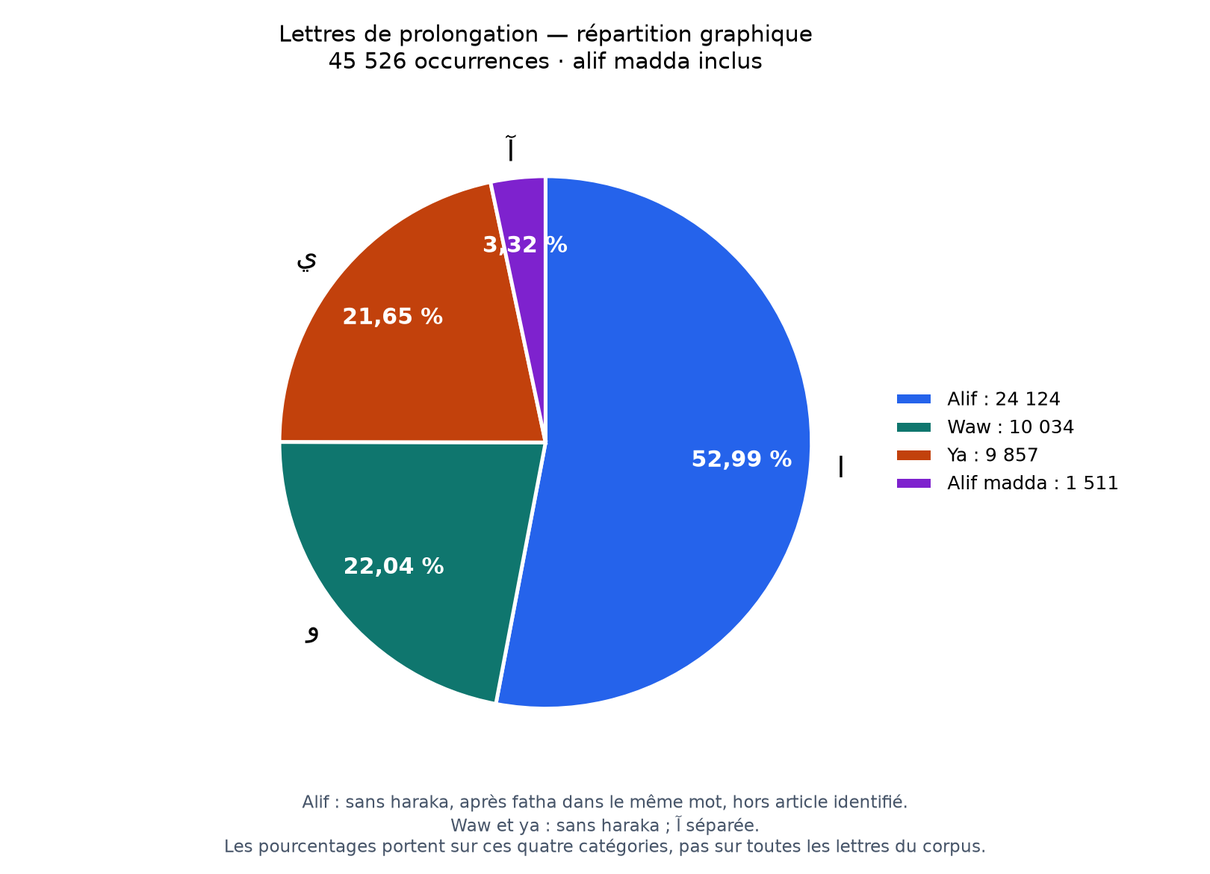
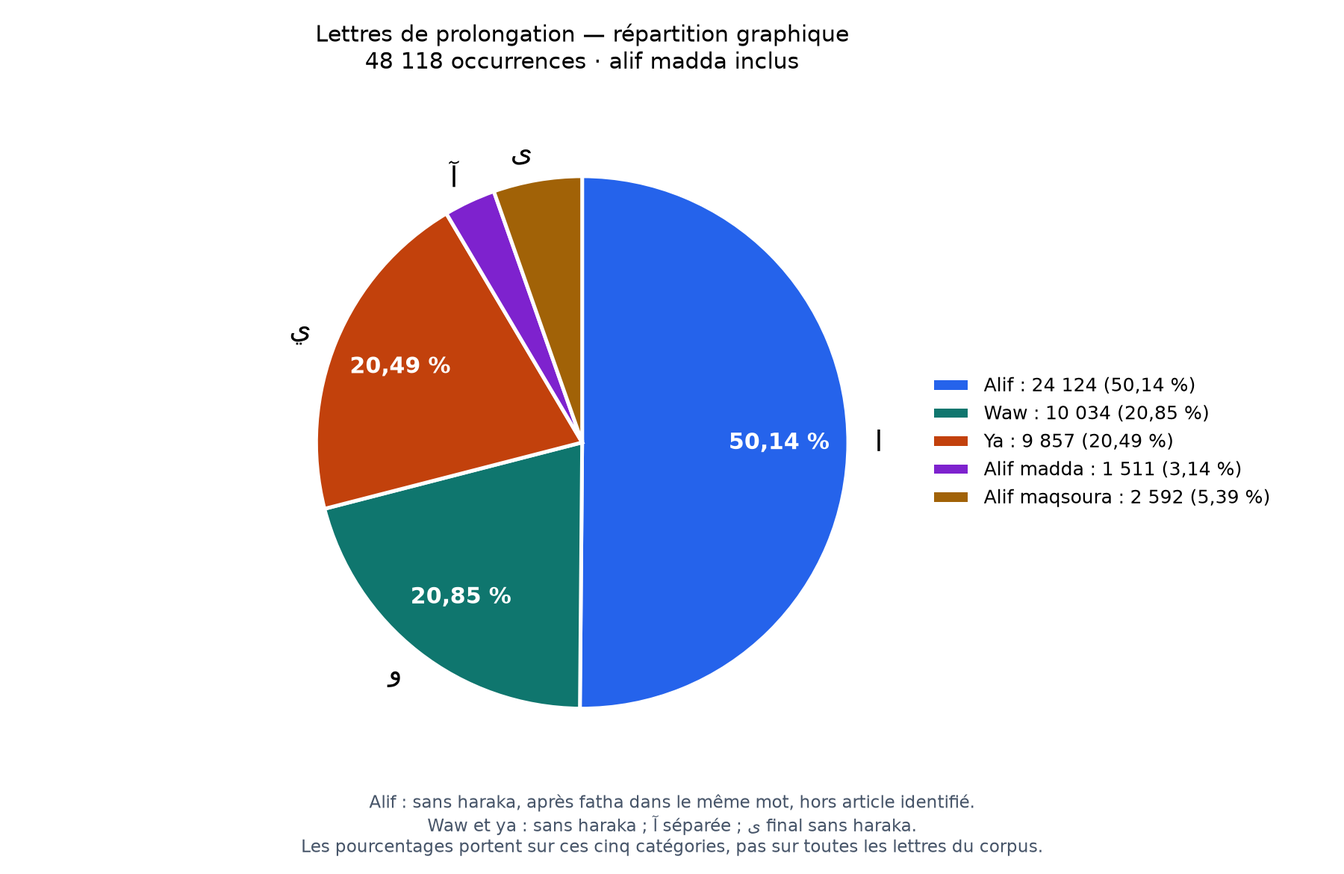
Inclure l’alif maqsoura final sans haraka dans les prolongations

diff --git a/quran_stat/study.py b/quran_stat/study.py
@@ -45,19 +45,14 @@ def frequency_rows(counts):
             for rank, (form, count) in enumerate(sorted(counts.items(), key=lambda item: (-item[1], item[0])), 1)]
 
 
-def vowel_letter_rows(variations, excluded_alifs=0):
-    counts = {base: sum(count for form, count in variations.items()
-                        if form[0] == base and not any(mark in HARAKAT for mark in form[1:]))
-              for base in "اويآ"}
-    counts["ا"] -= excluded_alifs
-    if counts["ا"] < 0:
-        raise ValueError("Le nombre d'alifs exclus dépasse le nombre d'alifs sans haraka.")
+def vowel_letter_rows(retained):
+    counts = {base: retained.get(base, 0) for base in "اويآى"}
     total = sum(counts.values())
     return [{"letter": base, "count": count, "share": count / total if total else 0}
             for base, count in counts.items()]
 
 
-def plots(directory, verse_rows, surah_rows, letters, words, variations, fit, excluded_alifs=0):
+def plots(directory, verse_rows, surah_rows, letters, words, variations, fit, retained_vowels):
     os.environ.setdefault("MPLCONFIGDIR", str(directory / ".mplconfig"))
     import matplotlib
     matplotlib.use("Agg")
@@ -126,14 +121,14 @@ def plots(directory, verse_rows, surah_rows, letters, words, variations, fit, ex
     axes[1].set(xlabel="Numéro de sourate", ylabel="Lettres par verset", title="Longueur moyenne des versets par sourate")
     save(fig, "04_surahs")
 
-    vowel_rows = vowel_letter_rows(variations, excluded_alifs)
+    vowel_rows = vowel_letter_rows(retained_vowels)
     total = sum(row["count"] for row in vowel_rows)
-    fig, ax = plt.subplots(figsize=(9, 6.5))
+    fig, ax = plt.subplots(figsize=(10, 6.5))
     wedges, labels, percentages = ax.pie(
         [row["count"] for row in vowel_rows],
         labels=[row["letter"] for row in vowel_rows],
-        colors=["#2563eb", "#0f766e", "#c2410c", "#7e22ce"],
-        autopct=lambda percent: f"{percent:.2f} %".replace(".", ","),
+        colors=["#2563eb", "#0f766e", "#c2410c", "#7e22ce", "#a16207"],
+        autopct=lambda percent: f"{percent:.2f} %".replace(".", ",") if percent >= 8 else "",
         startangle=90, counterclock=False, pctdistance=0.74,
         wedgeprops={"edgecolor": "white", "linewidth": 2},
         textprops={"fontsize": 15},
@@ -142,19 +137,47 @@ def plots(directory, verse_rows, surah_rows, letters, words, variations, fit, ex
         label.set_color("white")
         label.set_fontsize(12)
         label.set_fontweight("bold")
-    names = ["Alif", "Waw", "Ya", "Alif madda"]
-    ax.legend(wedges, [f"{name} : {row['count']:,}".replace(",", " ")
+    names = ["Alif", "Waw", "Ya", "Alif madda", "Alif maqsoura"]
+    ax.legend(wedges, [f"{name} : {row['count']:,} ({100 * row['share']:.2f} %)".replace(",", " ").replace(".", ",")
                        for name, row in zip(names, vowel_rows)],
               loc="center left", bbox_to_anchor=(1, 0.5), frameon=False)
     ax.set_title("Lettres de prolongation — répartition graphique\n"
                  + f"{total:,} occurrences · alif madda inclus".replace(",", " "), pad=22)
     fig.text(0.5, 0.025, "Alif : sans haraka, après fatha dans le même mot, hors article identifié.\n"
-             "Waw et ya : sans haraka ; آ séparée.\n"
-             "Les pourcentages portent sur ces quatre catégories, pas sur toutes les lettres du corpus.",
+             "Waw et ya : sans haraka ; آ séparée ; ى final sans haraka.\n"
+             "Les pourcentages portent sur ces cinq catégories, pas sur toutes les lettres du corpus.",
              ha="center", fontsize=9, color="#475569")
     fig.tight_layout(rect=(0, 0.09, 1, 1))
     fig.savefig(directory / "05_vowel_letters_pie.png", dpi=180)
     fig.savefig(directory / "05_vowel_letters_pie.pdf")
+    plt.close(fig)
+
+    # Aperçu public régénérable avec les mêmes données que le rapport.
+    fig, axes = plt.subplots(2, 2, figsize=(12, 8))
+    axes[0, 0].hist(lengths, bins="fd", color="#2563eb")
+    axes[0, 0].set(title="Longueur des versets", xlabel="Lettres par verset", ylabel="Versets")
+    frequent = letters.most_common(10)
+    axes[0, 1].barh([x[0] for x in frequent][::-1], [x[1] for x in frequent][::-1], color="#0f766e")
+    axes[0, 1].set(title="Dix lettres les plus fréquentes", xlabel="Occurrences")
+    marks = {name: sum(count for form, count in variations.items() if mark in form[1:])
+             for mark, name in HARAKAT.items()}
+    axes[1, 0].bar(list(marks), list(marks.values()), color="#7e22ce")
+    axes[1, 0].tick_params(axis="x", labelrotation=30)
+    axes[1, 0].set(title="Fréquence des sept harakat", ylabel="Signes")
+    axes[1, 1].barh([r["letter"] for r in vowel_rows][::-1],
+                    [r["count"] for r in vowel_rows][::-1], color="#c2410c")
+    for i, row in enumerate(reversed(vowel_rows)):
+        axes[1, 1].text(row["count"] + 250, i,
+                        f"{row['count']:,} · {row['share']:.1%}".replace(",", " "), va="center", fontsize=9)
+    axes[1, 1].set(title=f"Candidats à la prolongation : {total:,}".replace(",", " "),
+                    xlabel="Occurrences", xlim=(0, max(r["count"] for r in vowel_rows) * 1.4))
+    fig.suptitle("Texte coranique écrit selon l’usage courant de la langue arabe\n"
+                 + f"{sum(letters.values()):,} lettres · {len(verse_rows):,} versets · {len(surah_rows)} sourates".replace(",", " "))
+    fig.text(0.5, 0.01, "Critères graphiques : ا après fatha, hors article ; و et ي sans haraka ; آ séparée ; ى final sans haraka.",
+             ha="center", fontsize=9)
+    fig.tight_layout(rect=(0, 0.04, 1, 0.94))
+    fig.savefig(directory / "corpus-overview.png", dpi=180)
+    fig.savefig(directory / "corpus-overview.pdf")
     plt.close(fig)
 
 
@@ -217,9 +240,11 @@ def make_report(summary, verse_rows, surah_rows, letter_rows, word_rows, output)
     vowel_rows = summary["vowel_letters"]
     vowel_total = sum(row["count"] for row in vowel_rows)
     lines += ["### Lettres de prolongation : répartition graphique", "",
-              f"Total retenu : **{vowel_total:,} occurrences**, pour ا, و et ي sans les sept harakat, avec آ ajoutée séparément.".replace(",", " "),
+              f"Total retenu : **{vowel_total:,} occurrences**, pour ا, و et ي selon les critères ci-dessous, avec آ et ى final sans haraka séparés.".replace(",", " "),
               f"Pour ا, la lettre précédente doit porter une **fatha** dans le même mot (éventuellement avec shadda). Le fathatan ne remplace pas la fatha dans ce filtre. **{summary['excluded_article_alifs']} alifs d'article sont exclus** dans ال initial ou dans وال, فال, بال ; **{summary['excluded_alifs_by_reason'].get('no_preceding_fatha', 0)} autres alifs** sont exclus faute de fatha précédente.",
               "Le filtre de l'article reste nécessaire : dans وَالْـ et فَالْـ, une fatha précède aussi l'alif. Cette règle graphique reste limitée aux préfixes cités ; elle n'est pas une analyse morphologique exhaustive. Le critère de و et ي reste l'absence de haraka, et آ est comptée séparément. Le total général reste 330 705 lettres.",
+              "L’alif maqsoura ى est retenu en fin de mot sans aucune des sept harakat sur cette lettre, sans condition sur les signes de la lettre précédente. Ainsi مُوسَى et هُدًى sont inclus : dans هُدًى, le fathatan porte sur د. Ce classement graphique ne distingue pas la pause de la liaison ; la shadda reste une dimension séparée.",
+              f"Comparaison avant/après l’ajout de ى final sans haraka : {vowel_total - vowel_rows[-1]['count']:,} → {vowel_total:,} candidats (+{vowel_rows[-1]['count']:,}). Les quatre catégories précédentes et le total des lettres écrites restent inchangés.".replace(",", " "),
               "Les pourcentages sont calculés sur ce total, et non sur les 330 705 lettres. Ce critère graphique ne constitue pas une identification phonétique de chaque prolongation.", "",
               "| Lettre | Occurrences | Part du total retenu |", "|---|---:|---:|"]
     for row in vowel_rows:
@@ -294,6 +319,7 @@ def run(input_dir, output):
     word_bigrams, letter_bigrams, repeated = Counter(), Counter(), defaultdict(list)
     surah, previous = 0, 0
     excluded_alifs = 0
+    retained_vowels = Counter()
     alif_exclusions = []
     for index, (source, cleaned) in enumerate(zip(original, plain), 1):
         if source["Verse_ID"] != str(index) or cleaned["Verse_ID"] != str(index):
@@ -318,7 +344,8 @@ def run(input_dir, output):
         all_words.extend(words)
         letter_counts.update("".join(words))
         variation_counts.update(units)
-        _, _, exclusions = analyze_vowel_letters(source["Verse_Text"])
+        _, retained, exclusions = analyze_vowel_letters(source["Verse_Text"])
+        retained_vowels.update(retained)
         excluded_alifs += len(exclusions)
         alif_exclusions.extend({"verse_id": index, **item} for item in exclusions)
         word_bigrams.update(" ".join(pair) for pair in zip(words, words[1:]))
@@ -407,7 +434,7 @@ def run(input_dir, output):
                "letter_concentration": concentration(letter_counts.values()),
                "variation_concentration": concentration(variation_counts.values()),
                "harakat_counts": dict(harakat), "annotation_structure": dict(structure),
-               "vowel_letters": vowel_letter_rows(variation_counts, excluded_alifs),
+               "vowel_letters": vowel_letter_rows(retained_vowels),
                "excluded_alifs": excluded_alifs,
                "excluded_alifs_by_reason": dict(Counter(row['reason'] for row in alif_exclusions)),
                "excluded_article_alifs": sum(row['reason'] == 'article' for row in alif_exclusions),
@@ -445,7 +472,7 @@ def run(input_dir, output):
             sheet.append(list(row.values()))
     book.save(output / "statistical_tables.xlsx")
     write_json(output / "summary.json", summary)
-    plots(output, verse_rows, surah_rows, letter_counts, words, variation_counts, fit, excluded_alifs)
+    plots(output, verse_rows, surah_rows, letter_counts, words, variation_counts, fit, retained_vowels)
     make_report(summary, verse_rows, surah_rows, letter_rows, word_rows, output)
     print(f"Rapport : {(output / 'report.html').resolve()}", flush=True)
     return summary

diff --git a/quran_stat/count_vowel_letters.py b/quran_stat/count_vowel_letters.py
@@ -1,4 +1,4 @@
-"""Alif sans haraka après fatha, hors article ; و et ي sans haraka ; آ séparée.
+"""Alif sans haraka après fatha, hors article ; و et ي sans haraka ; آ séparée ; ى final sans haraka.
 
 python -m quran_stat.count_vowel_letters
 Il s'agit d'un critère graphique, pas d'une identification phonétique du madd.
@@ -27,32 +27,32 @@ def run(directory):
                 excluded_rows.append([row["Verse_ID"], item["word"], item["pattern"], item["word_index_nfc"],
                                       item["reason"], item["previous_unit"], item["letter_index_in_word"], row["Verse_Text"]])
             totals.update(counts)
-            per_verse.append([row["Verse_ID"], row["Verse_Text"], *(counts[c] for c in "اويآ"),
-                              sum(counts[c] for c in "اوي"), sum(counts.values()), raw["ا"], len(exclusions)])
+            per_verse.append([row["Verse_ID"], row["Verse_Text"], *(counts[c] for c in "اويآى"),
+                              sum(counts[c] for c in "اويى"), sum(counts.values()), raw["ا"], len(exclusions)])
     # Vérifie le résultat par agrégation des colonnes du CSV déjà validé.
     comparison = Counter()
     with (directory / "quran_verse_variations_frequencies.csv").open(encoding="utf-8-sig", newline="") as stream:
         for row in csv.DictReader(stream):
             for form, count in row.items():
-                if form[0] in "اويآ" and not any(mark in HARAKAT for mark in form[1:]):
+                if form[0] in "اويآى" and not any(mark in HARAKAT for mark in form[1:]):
                     comparison[form[0]] += int(count)
     if comparison != raw_totals:
         raise ValueError("Le texte et le CSV des variations donnent des résultats différents.")
     write_csv(directory / "vowel_letters_by_verse.csv",
-              ["Verse_ID", "Verse_Text", "ا", "و", "ي", "آ", "Total_without_madda", "Total_with_madda", "Raw_alif", "Excluded_alif"], per_verse)
+              ["Verse_ID", "Verse_Text", "ا", "و", "ي", "آ", "ى", "Total_without_madda", "Total_with_madda", "Raw_alif", "Excluded_alif"], per_verse)
     exclusion_header = ["Verse_ID", "Word", "Pattern", "Word_Index_NFC", "Reason", "Previous_Unit", "Letter_Index_In_Word", "Verse_Text"]
     write_csv(directory / "excluded_alifs.csv", exclusion_header, excluded_rows)
     write_csv(directory / "excluded_article_alifs.csv",
               exclusion_header, [row for row in excluded_rows if row[4] == "article"])
     report = {
-        "criterion": "ا without seven harakat, preceded by fatha in the same word, excluding initial ال or وال / فال / بال; و ي without seven harakat; آ separately; graphical rule",
+        "criterion": "ا without seven harakat, preceded by fatha in the same word, excluding initial ال or وال / فال / بال; و ي without seven harakat; آ separately; final ى without seven harakat (no condition on preceding marks); graphical rule",
         "raw_counts_without_seven_harakat": dict(raw_totals),
         "counts_without_seven_harakat": dict(totals),
         "excluded_alifs": len(excluded_rows),
         "excluded_by_reason": dict(Counter(row[4] for row in excluded_rows)),
         "excluded_article_alifs": sum(row[4] == "article" for row in excluded_rows),
         "excluded_by_article_pattern": dict(Counter(row[2] for row in excluded_rows if row[4] == "article")),
-        "total_without_madda": sum(totals[c] for c in "اوي"),
+        "total_without_madda": sum(totals[c] for c in "اويى"),
         "total_with_madda": sum(totals.values()),
         "raw_counts_match_variation_csv": comparison == raw_totals,
         "corrected_plus_exclusions_match_raw": sum(totals.values()) + len(excluded_rows) == sum(raw_totals.values()),

diff --git a/quran_stat/vowel_letters.py b/quran_stat/vowel_letters.py
@@ -1,4 +1,4 @@
-"""Candidats graphiques : alif après fatha, hors article ; waw, ya et آ séparés."""
+"""Candidats graphiques : alif après fatha, hors article ; ى final sans haraka ; waw, ya et آ séparés."""
 
 import re
 import unicodedata
@@ -11,6 +11,8 @@ ARABIC_WORD = re.compile(r"[\u0621-\u064A\u064B-\u065F\u0670]+")
 
 def analyze_vowel_letters(text):
     """Exige une fatha précédente pour ا et exclut les préfixes d'article connus.
+
+    Retient aussi ى sans haraka uniquement en fin de mot.
 
     Les harakat sont ignorées pour repérer les positions des lettres. Il s'agit
     d'une règle graphique, pas d'une analyse morphologique ou phonétique.
@@ -27,7 +29,7 @@ def analyze_vowel_letters(text):
         elif len(bases) >= 3 and bases[0] in "وفب" and bases[1:3] == "ال":
             article_index, pattern = 1, bases[:3]
         for index, form in enumerate(units):
-            if form[0] not in "اويآ" or any(mark in HARAKAT for mark in form[1:]):
+            if form[0] not in "اويآى" or any(mark in HARAKAT for mark in form[1:]):
                 continue
             raw[form[0]] += 1
             previous = units[index - 1] if index else ""
@@ -37,6 +39,8 @@ def analyze_vowel_letters(text):
                     reason = "article"
                 elif "َ" not in previous[1:]:
                     reason = "no_preceding_fatha"
+            if form[0] == "ى" and index != len(units) - 1:
+                reason = "non_final_maqsoura"
             if reason:
                 exclusions.append({"word": word, "pattern": pattern if reason == "article" else "",
                                    "reason": reason, "previous_unit": previous,

diff --git a/tests/test_vowel_letters.py b/tests/test_vowel_letters.py
@@ -4,6 +4,26 @@ from quran_stat.vowel_letters import analyze_vowel_letters
 
 
 class VowelLettersTests(unittest.TestCase):
+    def test_final_maqsoura_without_haraka(self):
+        raw, retained, exclusions = analyze_vowel_letters("مُوسَى هُدًى (عَلَى)، فَتَى")
+        self.assertEqual(raw["ى"], 4)
+        self.assertEqual(retained["ى"], 4)
+        self.assertFalse(exclusions)
+
+    def test_maqsoura_with_each_haraka_is_not_retained(self):
+        for mark in "ًٌٍَُِْ":
+            with self.subTest(mark=mark):
+                raw, retained, exclusions = analyze_vowel_letters("بَى" + mark)
+                self.assertEqual(raw["ى"], 0)
+                self.assertEqual(retained["ى"], 0)
+
+    def test_nonfinal_maqsoura_and_shadda_dimension(self):
+        raw, retained, exclusions = analyze_vowel_letters("بَىب بَىّ")
+        self.assertEqual(raw["ى"], 2)
+        self.assertEqual(retained["ى"], 1)
+        self.assertEqual(exclusions[0]["reason"], "non_final_maqsoura")
+        self.assertEqual(sum(raw.values()), sum(retained.values()) + len(exclusions))
+
     def test_article_with_marks_and_three_prefixes(self):
         raw, retained, exclusions = analyze_vowel_letters("الْكِتَابُ وَالْكِتَابُ فَالْكِتَابُ بِالْكِتَابِ")
         self.assertEqual(raw["ا"], 8)

diff --git a/quran_stat/export_study_docs.py b/quran_stat/export_study_docs.py
@@ -1,0 +1,33 @@
+"""Actualise les copies publiques d'une étude déjà générée, sans publier sur GitHub."""
+
+import argparse
+import shutil
+from pathlib import Path
+
+
+def run(study_dir, docs_dir):
+    study_dir, docs_dir = Path(study_dir), Path(docs_dir)
+    assets = docs_dir / "assets"
+    assets.mkdir(parents=True, exist_ok=True)
+    report = (study_dir / "report.md").read_text(encoding="utf-8")
+    report = "\n".join(
+        "Source de référence : `data/verses.csv`. Les tableaux détaillés sont régénérables avec la commande complète du README ; le manifeste conserve l’empreinte du corpus."
+        if line.startswith("Sources : ") else line
+        for line in report.splitlines()
+    ).rstrip() + "\n"
+    for image in sorted(study_dir.glob("*.png")):
+        shutil.copy2(image, assets / image.name)
+        report = report.replace(f"]({image.name})", f"](assets/{image.name})")
+    (docs_dir / "statistical-study.md").write_text(report, encoding="utf-8")
+
+
+def main():
+    parser = argparse.ArgumentParser(description=__doc__)
+    parser.add_argument("--study-dir", type=Path, default=Path("outputs/study"))
+    parser.add_argument("--docs-dir", type=Path, default=Path("docs"))
+    args = parser.parse_args()
+    run(args.study_dir, args.docs_dir)
+
+
+if __name__ == "__main__":
+    main()

diff --git a/tests/test_regression.py b/tests/test_regression.py
@@ -52,7 +52,7 @@ class CorpusRegressionTests(unittest.TestCase):
             _, retained, exclusions = analyze_vowel_letters(verse)
             totals.update(retained)
             reasons.update(item["reason"] for item in exclusions)
-        self.assertEqual(totals, {"ا": 24124, "و": 10034, "ي": 9857, "آ": 1511})
+        self.assertEqual(totals, {"ا": 24124, "و": 10034, "ي": 9857, "آ": 1511, "ى": 2592})
         self.assertEqual(reasons, {"article": 11958, "no_preceding_fatha": 7458})
 
 

diff --git a/docs/statistical-study.md b/docs/statistical-study.md
@@ -3,12 +3,12 @@
 Cette étude porte sur le texte coranique **écrit selon l'usage courant de la langue arabe**, tel qu'il figure dans le document Word fourni. Les résultats sont propres à ce corpus et à cette convention d'écriture.
 Une **deuxième étude distincte selon la convention du rasm othmani (الرسم العثماني)** est envisagée par la suite. Elle n'est pas encore réalisée ; aucune comparaison avec cette convention n'est incluse dans les résultats actuels.
 
-Base analysée : **6 236 versets, 114 sourates, 330 705 lettres et 77 794 mots graphiques**.
+Base analysée : **6 236 versets  114 sourates  330 705 lettres et 77 794 mots graphiques**.
 Le total de lettres est contrôlé contre les textes sans harakat et contre chaque ligne du CSV des variations.
 
 ## 1. Méthode et portée
 
-Source de référence : `data/verses.csv`. Les tableaux de versets détaillés peuvent être régénérés localement avec la commande complète du README ; le manifeste contient l’empreinte SHA-256 du corpus.
+Source de référence : `data/verses.csv`. Les tableaux détaillés sont régénérables avec la commande complète du README ; le manifeste conserve l’empreinte du corpus.
 Les mots sont des suites de lettres arabes du texte sans harakat. Les préfixes attachés restent attachés ; aucune lemmatisation ni fusion de ا, أ, إ, آ, ة, ه, ى et ي. Ce sont des formes graphiques, pas des racines ni des lexèmes.
 Les lettres et leurs signes sont analysés en NFC. La shadda ne double pas le nombre de lettres. Les numéros, parenthèses et espaces sont exclus. Les sourates sont reconstruites à partir des retours à (1), avec contrôle de toute la séquence des numéros.
 Il s'agit de statistiques de la totalité du corpus fourni : écart type de population (ddof=0), quantiles à interpolation linéaire. Pas de tests de significativité ni d'hypothèse d'indépendance des versets. Les différences ne prouvent ni intention, ni causalité, ni singularité par rapport à d'autres corpus.
@@ -106,17 +106,20 @@ Ces catégories ne signifient pas qu'une annotation manque : elles comprennent n
 
 ### Lettres de prolongation : répartition graphique
 
-Total retenu : **45 526 occurrences**  pour ا  و et ي sans les sept harakat  avec آ ajoutée séparément.
+Total retenu : **48 118 occurrences**  pour ا  و et ي selon les critères ci-dessous  avec آ et ى final sans haraka séparés.
 Pour ا, la lettre précédente doit porter une **fatha** dans le même mot (éventuellement avec shadda). Le fathatan ne remplace pas la fatha dans ce filtre. **11958 alifs d'article sont exclus** dans ال initial ou dans وال, فال, بال ; **7458 autres alifs** sont exclus faute de fatha précédente.
 Le filtre de l'article reste nécessaire : dans وَالْـ et فَالْـ, une fatha précède aussi l'alif. Cette règle graphique reste limitée aux préfixes cités ; elle n'est pas une analyse morphologique exhaustive. Le critère de و et ي reste l'absence de haraka, et آ est comptée séparément. Le total général reste 330 705 lettres.
+L’alif maqsoura ى est retenu en fin de mot sans aucune des sept harakat sur cette lettre, sans condition sur les signes de la lettre précédente. Ainsi مُوسَى et هُدًى sont inclus : dans هُدًى, le fathatan porte sur د. Ce classement graphique ne distingue pas la pause de la liaison ; la shadda reste une dimension séparée.
+Comparaison avant/après l’ajout de ى final sans haraka : 45 526 → 48 118 candidats (+2 592). Les quatre catégories précédentes et le total des lettres écrites restent inchangés.
 Les pourcentages sont calculés sur ce total, et non sur les 330 705 lettres. Ce critère graphique ne constitue pas une identification phonétique de chaque prolongation.
 
 | Lettre | Occurrences | Part du total retenu |
 |---|---:|---:|
-| ا | 24124 | 52,99 % |
-| و | 10034 | 22,04 % |
-| ي | 9857 | 21,65 % |
-| آ | 1511 | 3,32 % |
+| ا | 24124 | 50,14 % |
+| و | 10034 | 20,85 % |
+| ي | 9857 | 20,49 % |
+| آ | 1511 | 3,14 % |
+| ى | 2592 | 5,39 % |
 
 ![Répartition des lettres de prolongation](assets/05_vowel_letters_pie.png)
 

diff --git a/docs/methodology.md b/docs/methodology.md
@@ -66,13 +66,33 @@ Les règles en vigueur sont :
   éventuellement avec shadda ; le fathatan ne remplace pas la fatha ;
 - exclusion supplémentaire de l'alif de `ال` initial, `وال`, `فال` et `بال` ;
 - `و` et `ي` sans les sept harakat, sans filtre sur la voyelle précédente ;
-- `آ` comptée séparément.
+- `آ` comptée séparément ;
+- `ى` en fin de mot, sans aucune des sept harakat sur cette lettre, comptée
+  séparément ; aucune condition sur la voyelle précédente. La shadda reste
+  une dimension distincte et ne constitue pas une haraka.
 
 Le filtre de l'article est nécessaire même avec la condition de fatha, notamment
 dans `وَالْـ` et `فَالْـ`. Il ne constitue pas une analyse morphologique exhaustive
-de tous les préfixes. Résultats : ا 24 124, و 10 034, ي 9 857, آ 1 511, soit
-45 526 occurrences. Les exclusions sont documentées par mot et verset.
+de tous les préfixes. Résultats : ا 24 124, و 10 034, ي 9 857, آ 1 511,
+ى 2 592, soit 48 118 occurrences. Les exclusions sont documentées par mot et verset.
 Ce classement graphique est distinct d'une identification phonétique du madd.
+
+### Ajout de l’alif maqsoura — comparaison avant/après
+
+L’ajout de `ى` final sans haraka porte le total de **45 526 à 48 118**
+(+2 592), sans changer les quatre catégories antérieures ni les **330 705**
+lettres écrites. Les 2 592 `ى` du corpus sont tous finaux et sans signe.
+`مُوسَى` est inclus, ainsi que `هُدًى` : dans cette graphie le fathatan porte
+sur `د`, pas sur `ى`. Le corpus contient 93 cas avec fathatan précédent.
+Un `ى` portant lui-même une des sept harakat est exclu, tout comme un `ى`
+non final. Les formes synthétiques correspondantes sont couvertes par les tests.
+Les exports ajoutent une colonne `ى` et les totaux avec/sans madda l’incluent.
+
+Ce classement graphique ne distingue pas la pause de la liaison. Pour les
+noms avec tanwin, la réalisation à la pause diffère de celle en liaison
+([référence sur la pause](https://awkafonline.gov.eg/content-sections/116/5026/الوقف-على-آخر-الكلم)).
+Il ne faut donc pas interpréter les 2 592 occurrences comme des prolongations
+prononcées dans tous les contextes.
 
 ## Statistiques
 

diff --git a/README.md b/README.md
@@ -60,6 +60,9 @@ remplace les fichiers de même nom dans le dossier de sortie.
 # Document Word facultatif, conservé localement
 .venv/bin/python -m quran_stat --input local/quran.docx --output-dir outputs/word
 
+# Actualiser le rapport et les figures du dépôt après une analyse complète
+.venv/bin/python -m quran_stat.export_study_docs
+
 # Tests
 .venv/bin/python -m unittest discover -s tests -v
 ```
